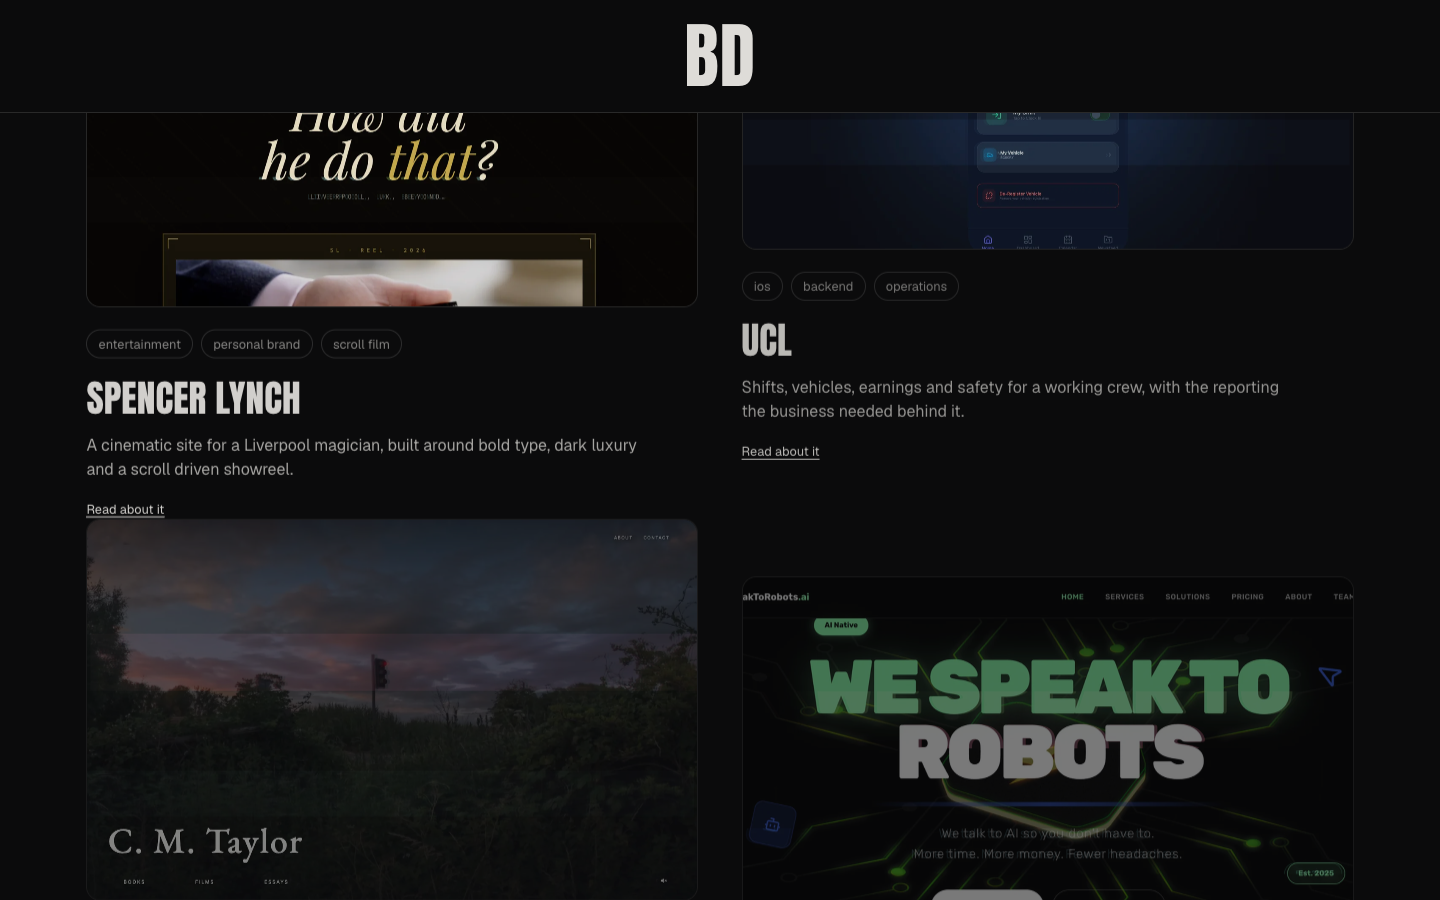
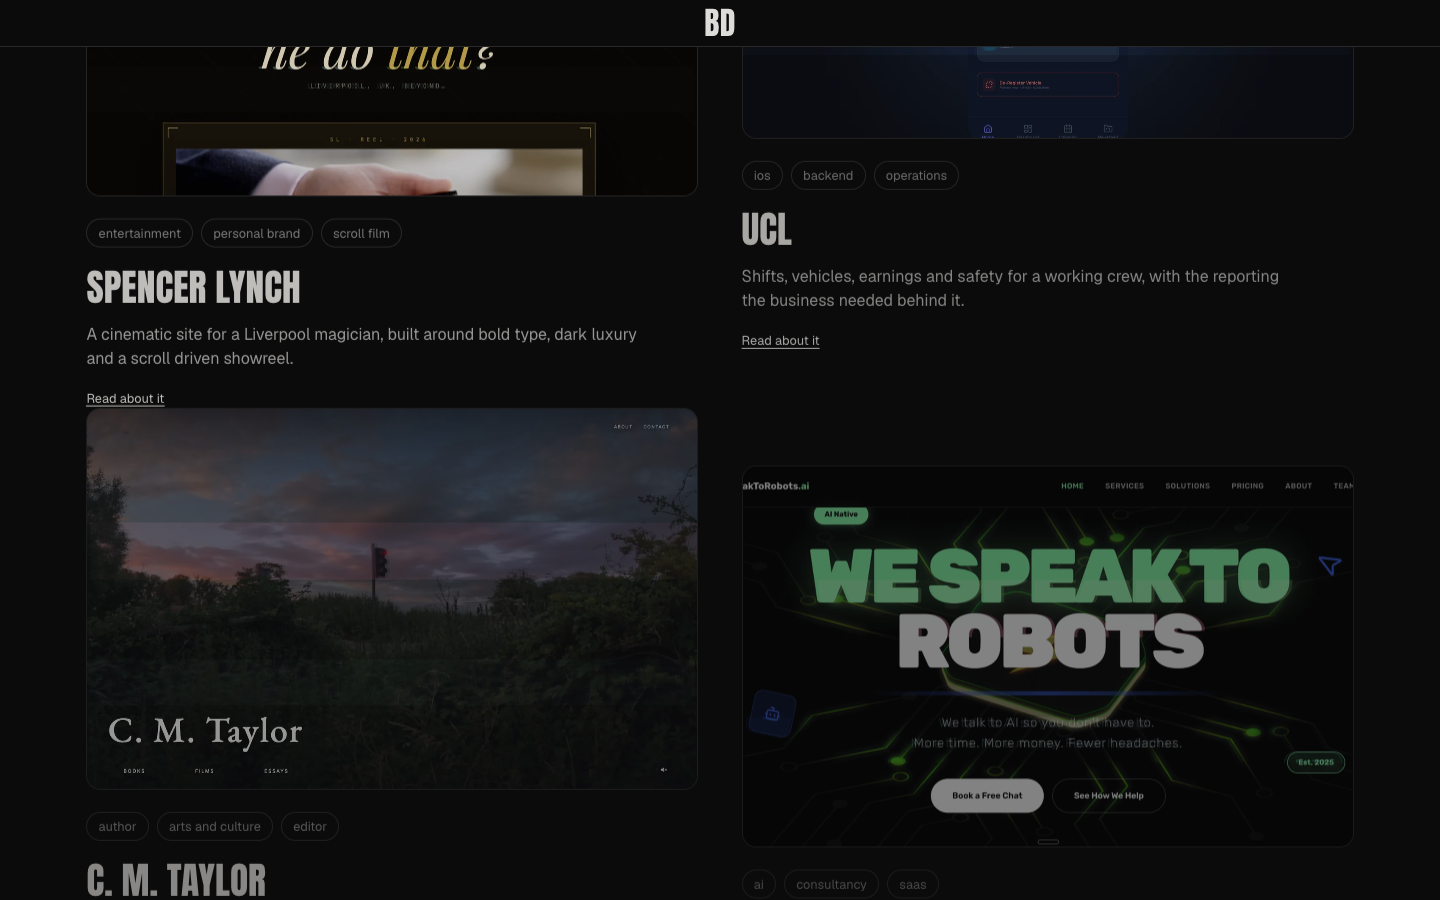
Top bar shrinks to a slim strip once the page scrolls
Claude-Session: https://claude.ai/code/session_01NAdPXLUXCGhh82qBsMYyAh

diff --git a/src/app/TopBar.tsx b/src/app/TopBar.tsx
@@ -1,11 +1,25 @@
+"use client";
+import { useEffect, useRef } from "react";
+
 /**
  * The bar across the top of the dark pages: BD in the middle, big and bold, that unfolds to BUILD DIFFERENT
- * under the pointer and folds back when it leaves. The hidden letters take no width until hover, so the B
- * and D slide apart as the words grow between them.
+ * under the pointer and folds back when it leaves. It sticks to the top, and once the page has scrolled a
+ * little it shrinks to a slim strip so the work gets the screen back.
  */
 export function TopBar() {
+  const ref = useRef<HTMLDivElement>(null);
+  useEffect(() => {
+    const el = ref.current;
+    if (!el) return;
+    let raf = 0;
+    const update = () => { raf = 0; el.classList.toggle("is-compact", window.scrollY > 80); };
+    const onScroll = () => { if (!raf) raf = requestAnimationFrame(update); };
+    update();
+    window.addEventListener("scroll", onScroll, { passive: true });
+    return () => { window.removeEventListener("scroll", onScroll); if (raf) cancelAnimationFrame(raf); };
+  }, []);
   return (
-    <div className="bar">
+    <div className="bar" ref={ref}>
       <a className="bd" href="/" aria-label="Build Different, home">
         <span className="bd__l">B</span><span className="bd__x" aria-hidden="true">UILD</span>
         <span className="bd__gap" aria-hidden="true" />

diff --git a/src/app/globals.css b/src/app/globals.css
@@ -1064,7 +1064,10 @@ footer.section {
   display: flex;
   justify-content: center;
   border-bottom: 1px solid rgba(222, 220, 216, 0.14);
+  transition: padding 360ms cubic-bezier(0.2, 0.8, 0.2, 1);
 }
+.bar.is-compact { padding-top: 0.45rem; padding-bottom: 0.45rem; }
+.bar.is-compact .bd { font-size: clamp(1.4rem, 2.2vw, 2rem); }
 .bd {
   display: inline-flex;
   align-items: baseline;
@@ -1076,6 +1079,7 @@ footer.section {
   color: var(--marble);
   text-decoration: none;
   white-space: nowrap;
+  transition: font-size 360ms cubic-bezier(0.2, 0.8, 0.2, 1);
 }
 .bd__x, .bd__gap {
   display: inline-block;
